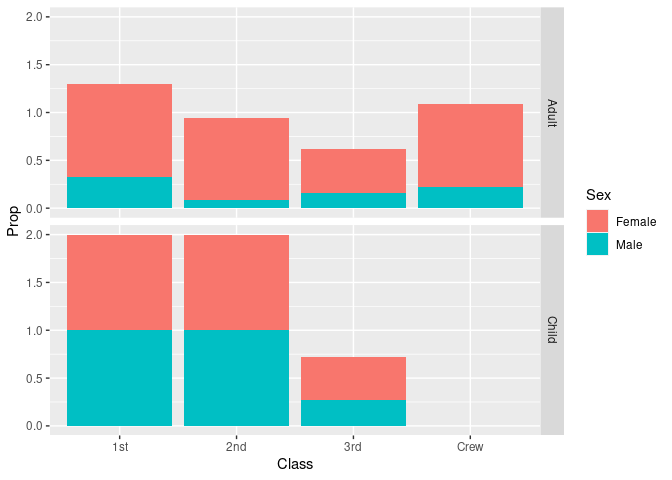
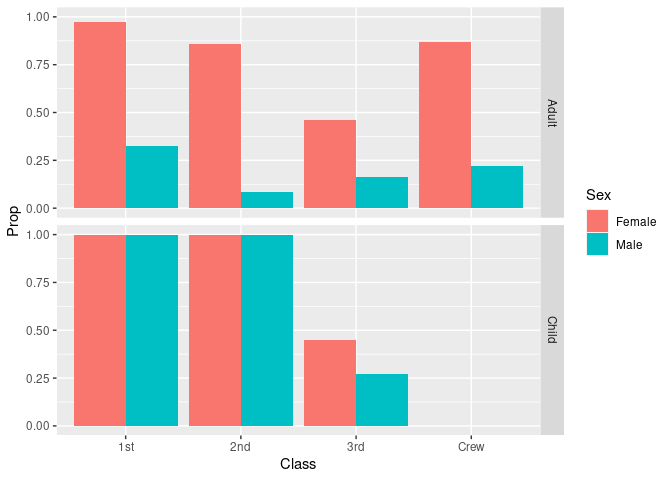
revised c01

diff --git a/challenges/c01-titanic-assignment.md b/challenges/c01-titanic-assignment.md
@@ -150,8 +150,9 @@ df_titanic %>% summarize(total = sum(n))
     Alternatively, there may have been a few people who for some reason
     or another were unable to make the Titanic’s voyage after purchasing
     a ticket. Additionally, there may have been people who were
-    travelling under aliases or whose names were lost. Wikipedia’s
-    statistic is only an estimate.
+    travelling under aliases or whose names were lost. It’s difficult to
+    say which one is *more* accurate, since both of our datasets merely
+    try to estimate the number of folks aboard the Titanic.
 
 ### **q3** Create a plot showing the count of persons who *did* survive, along with aesthetics for `Class` and `Sex`. Document your observations below.
 
@@ -176,7 +177,7 @@ df_titanic %>%
   conclusions like this, because, for instance, the high male survival
   rate in crew could be indicative of the crew being a majority male,
   not men running to the front of the line.
-- Even with these biased datasets though, I’m tempted to draw
+- Based upon this biased visualization of the data, I’m tempted to draw
   conclusions like “the men in 1st and 2nd class were taught this
   concept of ‘chivalry’ and so sacrificed themselves so a higher
   proportion of women would survive…” which is dangerous to do without a
@@ -264,11 +265,11 @@ additional variables!
 df_prop %>%
   filter(Survived == "Yes") %>%
   ggplot() + 
-  geom_col(aes(x = Class, y = Prop, fill = Sex)) +
+  geom_col(aes(x = Class, y = Prop, fill = Sex), position = "dodge") +
   facet_grid(rows = vars(Age))
 ```
 
-    ## Warning: Removed 2 rows containing missing values (`position_stack()`).
+    ## Warning: Removed 2 rows containing missing values (`geom_col()`).
 
 ![](c01-titanic-assignment_files/figure-gfm/q5-task-1.png)<!-- -->
 
